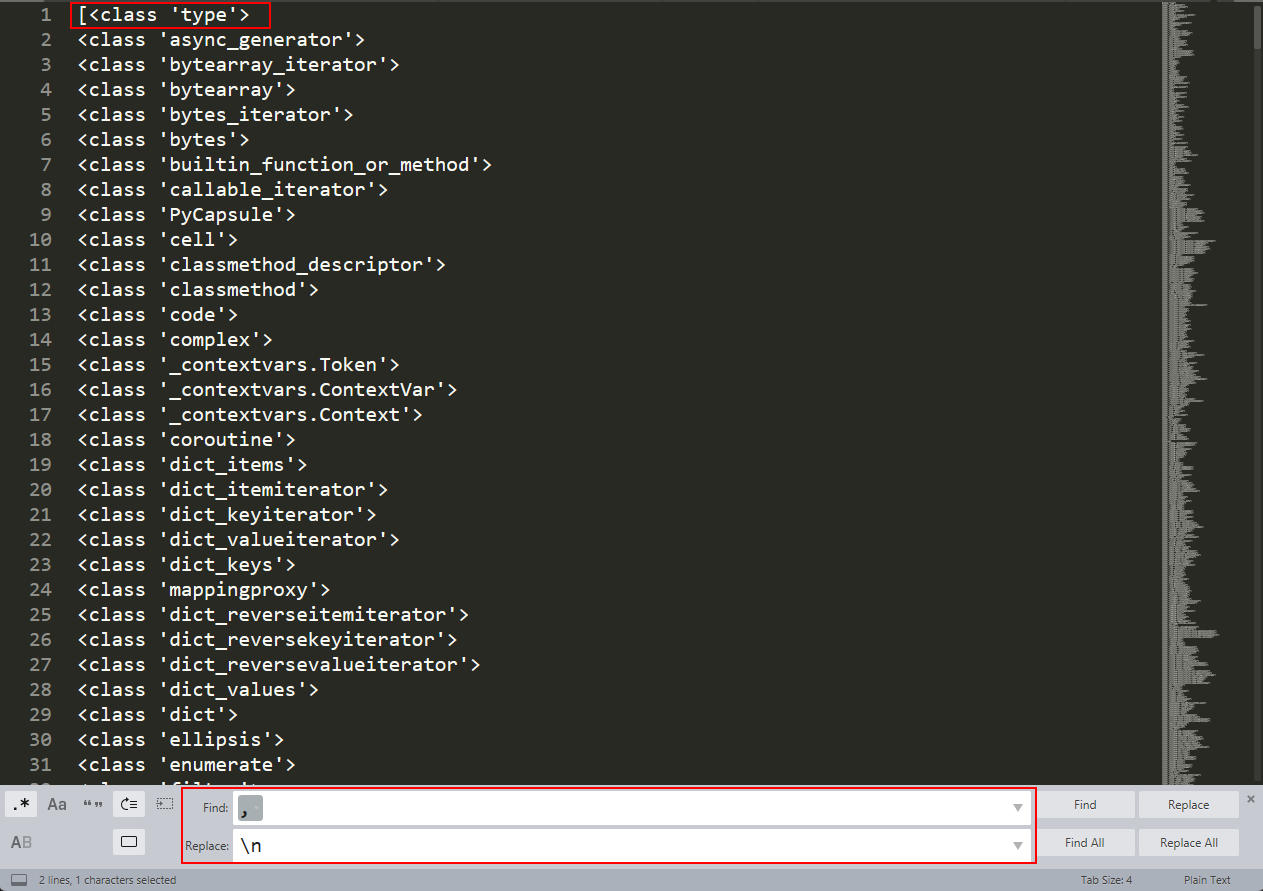
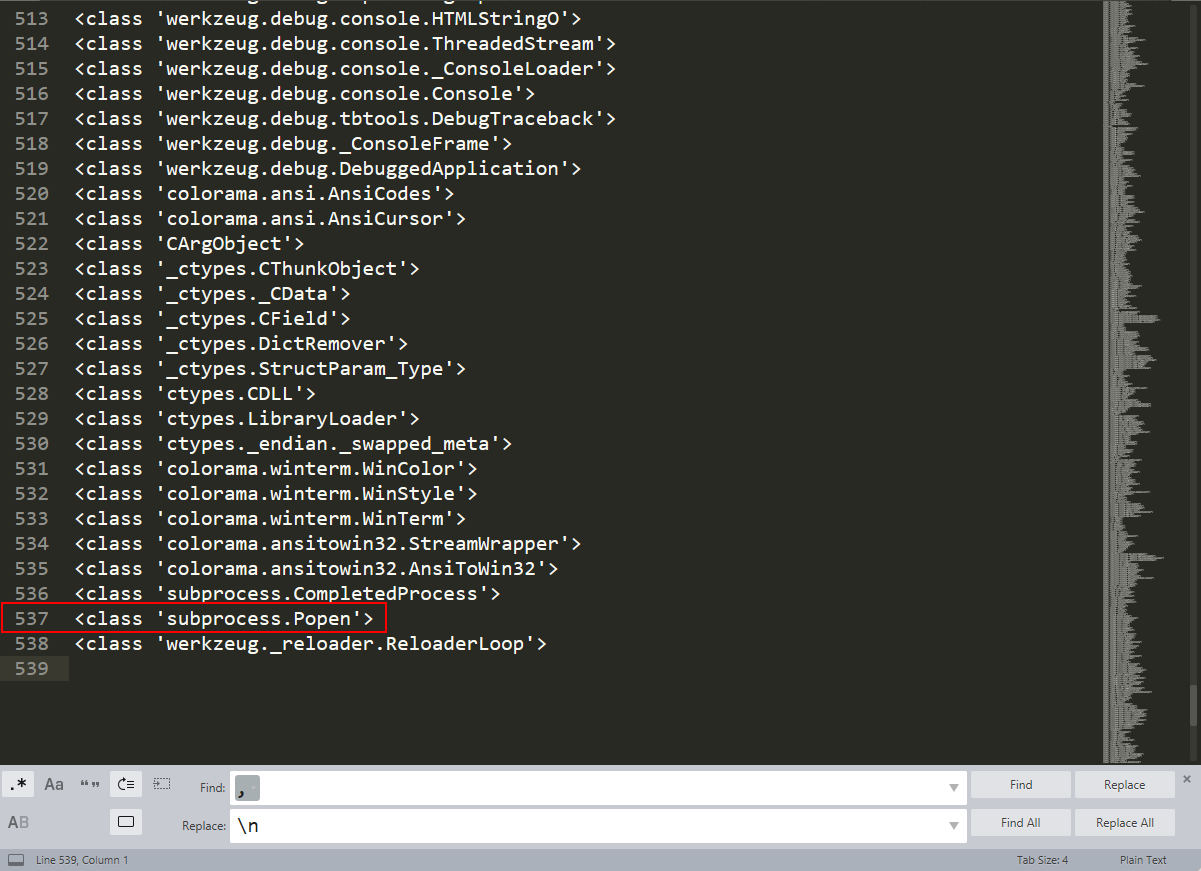
tweak article

Changed region(s): [[0.0, 0.0, 1.0, 0.992], [0.9858, 0.775, 1.0, 0.837], [0.9858, 0.0, 1.0, 0.062]]

diff --git a/_posts/2024-08-03-how-to-exploit-ssti.md b/_posts/2024-08-03-how-to-exploit-ssti.md
@@ -131,15 +131,11 @@ This resulted in a huge list of object classes in the response. Since these were
 
 ![](/assets/img/posts/ssti/7.png)
 
-After obtaining the list of all the classes, I copied them into a text editor like Sublime Text. I then replaced each comma and space (`, `) with a newline (`\n`). This change moved each class name onto its own line, making the list easier to read. I also removed the first line that indicated the type, as it was not needed. 
+After obtaining the list of all the classes, I copied them into a text editor like Sublime Text. I then replaced each comma and space (`, `) with a newline (`\n`). This change moved each class name onto its own line, making the list easier to read. 
 
-Doing this only for the demonstration purpose with the payload `(__mro__[1])` to work which will access the second element. Though if you are willing to use the base class object it is not necessary to remove the first line and you can directly use the subclasses with their indicies number.  
+Here, we can see that `subprocess.popen` (a class vulnerable to code execution) is located at line number 537. Since Python uses zero-based indexing, the actual index number for this class would be 536. This can be further verified as well.
 
 ![](/assets/img/posts/ssti/8.png)
-
-At this point, we have access to the number of classes present, but we are more interested in the one that could lead us to potential command injection. One of my favorites, and a particularly useful one, is `subprocess.popen`, which I found in the list at index number 536, as you can see in the screenshot below.
-
-![](/assets/img/posts/ssti/9.png)
 
 Though we can also verify the index number just by appending the index number in our payload so far which will be 
 
